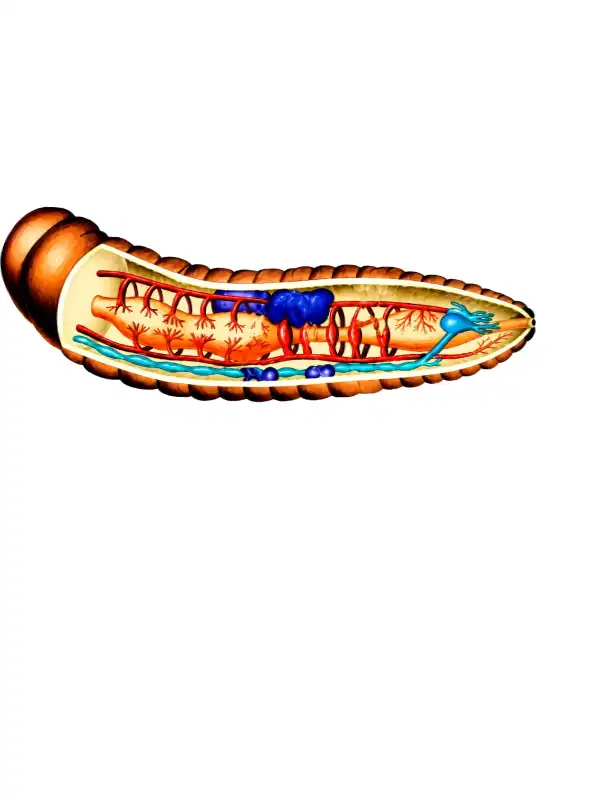
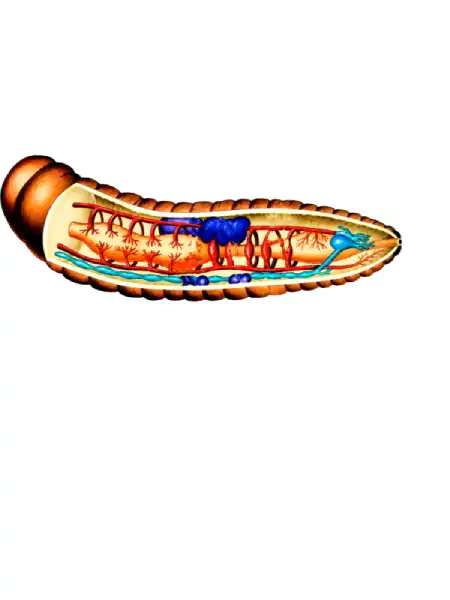
fix(diagram): wrap container tightly around image to eliminate side gaps

Changed region(s): [[0.0933, 0.3, 0.8711, 0.51], [0.6533, 0.33, 0.7156, 0.36], [0.8711, 0.39, 0.9022, 0.42]]

diff --git a/src/components/InteractiveDiagramVisualizer.tsx b/src/components/InteractiveDiagramVisualizer.tsx
@@ -183,135 +183,137 @@ export function InteractiveDiagramVisualizer({ diagrams, lang, lessonFolder }: I
         </div>
       )}
 
-      {/* Main Diagram Canvas Area - Compact Height to fit screen with Zero Scroll */}
-      <div 
-        className="relative w-full h-[36vh] max-h-[320px] min-h-[220px] md:h-[400px] md:max-h-[420px] border border-slate-150 dark:border-slate-800/80 rounded-2xl overflow-hidden bg-slate-950/20 dark:bg-[#060913] select-none flex items-center justify-center touch-none"
-        onMouseDown={handleMouseDown}
-        onMouseMove={handleMouseMove}
-        onMouseUp={handleMouseUp}
-        onMouseLeave={handleMouseUp}
-        onTouchStart={handleTouchStart}
-        onTouchMove={handleTouchMove}
-        onTouchEnd={handleTouchEnd}
-        style={{ cursor: transform.scale > 1 ? (isDragging ? 'grabbing' : 'grab') : 'default' }}
-      >
-        {/* Zoomable Inner Canvas */}
-        <div
-          ref={containerRef}
-          className="relative max-h-full max-w-full flex items-center justify-center"
-          style={{
-            transform: `translate(${transform.x}px, ${transform.y}px) scale(${transform.scale})`,
-            transformOrigin: 'center center',
-            transition: isDragging ? 'none' : 'transform 0.15s ease-out'
-          }}
+      {/* Main Diagram Canvas Area - Wraps tightly with Zero Side Gaps */}
+      <div className="flex items-center justify-center w-full overflow-hidden">
+        <div 
+          className="relative inline-block max-w-full border border-slate-150 dark:border-slate-800/80 rounded-2xl overflow-hidden bg-slate-950/20 dark:bg-[#060913] select-none touch-none shadow-xs"
+          onMouseDown={handleMouseDown}
+          onMouseMove={handleMouseMove}
+          onMouseUp={handleMouseUp}
+          onMouseLeave={handleMouseUp}
+          onTouchStart={handleTouchStart}
+          onTouchMove={handleTouchMove}
+          onTouchEnd={handleTouchEnd}
+          style={{ cursor: transform.scale > 1 ? (isDragging ? 'grabbing' : 'grab') : 'default' }}
         >
-          {/* Sub-wrapper that strictly wraps the rendered image dimensions */}
-          <div className="relative inline-block max-h-[36vh] md:max-h-[400px] max-w-full">
-            <img
-              src={getAssetUrl(activeDiagram.imageFile)}
-              alt={lang === 'ar' ? activeDiagram.titleAr : (activeDiagram.titleEn || activeDiagram.titleAr)}
-              className="h-[36vh] max-h-[320px] min-h-[220px] md:h-[400px] md:max-h-[420px] w-auto object-contain block rounded-xl mx-auto"
-              draggable={false}
-            />
+          {/* Zoomable Inner Canvas */}
+          <div
+            ref={containerRef}
+            className="relative flex items-center justify-center"
+            style={{
+              transform: `translate(${transform.x}px, ${transform.y}px) scale(${transform.scale})`,
+              transformOrigin: 'center center',
+              transition: isDragging ? 'none' : 'transform 0.15s ease-out'
+            }}
+          >
+            {/* Sub-wrapper that strictly matches the exact rendered image width & height */}
+            <div className="relative inline-block w-auto h-auto max-w-full">
+              <img
+                src={getAssetUrl(activeDiagram.imageFile)}
+                alt={lang === 'ar' ? activeDiagram.titleAr : (activeDiagram.titleEn || activeDiagram.titleAr)}
+                className="max-h-[42vh] md:max-h-[380px] w-auto max-w-full object-contain block rounded-xl mx-auto"
+                draggable={false}
+              />
 
-            {/* SVG arrows overlay */}
-            <svg className="absolute inset-0 w-full h-full pointer-events-none z-15">
-              <defs>
-                {/* Arrow marker for default state */}
-                <marker
-                  id="arrow-head-default"
-                  viewBox="0 0 10 10"
-                  refX="6"
-                  refY="5"
-                  markerWidth="6"
-                  markerHeight="6"
-                  orient="auto-start-reverse"
-                >
-                  <path d="M 0 1.5 L 10 5 L 0 8.5 z" fill="#10b981" />
-                </marker>
-                {/* Arrow marker for active state */}
-                <marker
-                  id="arrow-head-active"
-                  viewBox="0 0 10 10"
-                  refX="6"
-                  refY="5"
-                  markerWidth="7"
-                  markerHeight="7"
-                  orient="auto-start-reverse"
-                >
-                  <path d="M 0 1.5 L 10 5 L 0 8.5 z" fill="#f59e0b" />
-                </marker>
-              </defs>
+              {/* SVG arrows overlay */}
+              <svg className="absolute inset-0 w-full h-full pointer-events-none z-15">
+                <defs>
+                  {/* Arrow marker for default state */}
+                  <marker
+                    id="arrow-head-default"
+                    viewBox="0 0 10 10"
+                    refX="6"
+                    refY="5"
+                    markerWidth="6"
+                    markerHeight="6"
+                    orient="auto-start-reverse"
+                  >
+                    <path d="M 0 1.5 L 10 5 L 0 8.5 z" fill="#10b981" />
+                  </marker>
+                  {/* Arrow marker for active state */}
+                  <marker
+                    id="arrow-head-active"
+                    viewBox="0 0 10 10"
+                    refX="6"
+                    refY="5"
+                    markerWidth="7"
+                    markerHeight="7"
+                    orient="auto-start-reverse"
+                  >
+                    <path d="M 0 1.5 L 10 5 L 0 8.5 z" fill="#f59e0b" />
+                  </marker>
+                </defs>
 
-              {hotspotsList.map((hotspot) => {
-                if (hotspot.arrowX === undefined || hotspot.arrowY === undefined || hotspot.arrowX === null || hotspot.arrowY === null) return null;
+                {hotspotsList.map((hotspot) => {
+                  if (hotspot.arrowX === undefined || hotspot.arrowY === undefined || hotspot.arrowX === null || hotspot.arrowY === null) return null;
+                  const isActive = selectedHotspot?.id === hotspot.id;
+                  
+                  return (
+                    <line
+                      key={`arrow-${hotspot.id}`}
+                      x1={`${hotspot.x}%`}
+                      y1={`${hotspot.y}%`}
+                      x2={`${hotspot.arrowX}%`}
+                      y2={`${hotspot.arrowY}%`}
+                      stroke={isActive ? '#f59e0b' : '#10b981'}
+                      strokeWidth={isActive ? 3 : 1.8}
+                      strokeDasharray={isActive ? 'none' : '3 3'}
+                      markerEnd={`url(#arrow-head-${isActive ? 'active' : 'default'})`}
+                      className="transition-all duration-300"
+                      style={{
+                        opacity: selectedHotspot ? (isActive ? 1 : 0.4) : 0.85
+                      }}
+                    />
+                  );
+                })}
+              </svg>
+
+              {/* Hotspots clickable markers */}
+              {hotspotsList.map((hotspot, idx) => {
                 const isActive = selectedHotspot?.id === hotspot.id;
-                
                 return (
-                  <line
-                    key={`arrow-${hotspot.id}`}
-                    x1={`${hotspot.x}%`}
-                    y1={`${hotspot.y}%`}
-                    x2={`${hotspot.arrowX}%`}
-                    y2={`${hotspot.arrowY}%`}
-                    stroke={isActive ? '#f59e0b' : '#10b981'}
-                    strokeWidth={isActive ? 3 : 1.8}
-                    strokeDasharray={isActive ? 'none' : '3 3'}
-                    markerEnd={`url(#arrow-head-${isActive ? 'active' : 'default'})`}
-                    className="transition-all duration-300"
+                  <div
+                    key={hotspot.id}
+                    className="absolute"
                     style={{
-                      opacity: selectedHotspot ? (isActive ? 1 : 0.4) : 0.85
+                      left: `${hotspot.x}%`,
+                      top: `${hotspot.y}%`,
+                      transform: `translate(-50%, -50%) scale(${1 / transform.scale})`,
+                      transformOrigin: 'center center',
+                      zIndex: isActive ? 50 : 20
                     }}
-                  />
+                  >
+                    <button
+                      onClick={() => {
+                        playHotspotSound();
+                        setSelectedHotspot(isActive ? null : hotspot);
+                      }}
+                      className={`w-6 h-6 md:w-7 md:h-7 flex items-center justify-center group focus:outline-none relative cursor-pointer rounded-full transition-transform ${
+                        isActive ? 'scale-125' : 'hover:scale-110 active:scale-95'
+                      }`}
+                      title={hotspot.labelAr}
+                      aria-label={hotspot.labelAr}
+                    >
+                      {/* Pulsing ring */}
+                      <span className={`absolute inline-flex h-full w-full rounded-full opacity-80 ${
+                        isActive ? 'animate-ping bg-amber-400' : 'animate-pulse bg-emerald-400'
+                      }`}></span>
+                      {/* Inner core badge with number */}
+                      <span className={`relative inline-flex items-center justify-center rounded-full h-4.5 w-4.5 md:h-5 md:w-5 text-[9px] md:text-[10px] font-black text-white shadow-xs border border-white transition-colors ${
+                        isActive ? 'bg-amber-500 ring-2 ring-amber-300' : 'bg-emerald-600'
+                      }`}>
+                        {idx + 1}
+                      </span>
+                    </button>
+                  </div>
                 );
               })}
-            </svg>
-
-            {/* Hotspots clickable markers */}
-            {hotspotsList.map((hotspot, idx) => {
-              const isActive = selectedHotspot?.id === hotspot.id;
-              return (
-                <div
-                  key={hotspot.id}
-                  className="absolute"
-                  style={{
-                    left: `${hotspot.x}%`,
-                    top: `${hotspot.y}%`,
-                    transform: `translate(-50%, -50%) scale(${1 / transform.scale})`,
-                    transformOrigin: 'center center',
-                    zIndex: isActive ? 50 : 20
-                  }}
-                >
-                  <button
-                    onClick={() => {
-                      playHotspotSound();
-                      setSelectedHotspot(isActive ? null : hotspot);
-                    }}
-                    className={`w-6 h-6 md:w-7 md:h-7 flex items-center justify-center group focus:outline-none relative cursor-pointer rounded-full transition-transform ${
-                      isActive ? 'scale-125' : 'hover:scale-110 active:scale-95'
-                    }`}
-                    title={hotspot.labelAr}
-                    aria-label={hotspot.labelAr}
-                  >
-                    {/* Pulsing ring */}
-                    <span className={`absolute inline-flex h-full w-full rounded-full opacity-80 ${
-                      isActive ? 'animate-ping bg-amber-400' : 'animate-pulse bg-emerald-400'
-                    }`}></span>
-                    {/* Inner core badge with number */}
-                    <span className={`relative inline-flex items-center justify-center rounded-full h-4.5 w-4.5 md:h-5 md:w-5 text-[9px] md:text-[10px] font-black text-white shadow-xs border border-white transition-colors ${
-                      isActive ? 'bg-amber-500 ring-2 ring-amber-300' : 'bg-emerald-600'
-                    }`}>
-                      {idx + 1}
-                    </span>
-                  </button>
-                </div>
-              );
-            })}
+            </div>
           </div>
         </div>
       </div>
 
-      {/* Dedicated Compact Bottom Info Panel (Zero Scrolling) */}
+      {/* Dedicated Compact Bottom Info Panel */}
       {selectedHotspot ? (
         <div className="bg-gradient-to-br from-emerald-50/90 to-teal-50/60 dark:from-slate-800/95 dark:to-slate-850 border border-emerald-200/90 dark:border-emerald-800/70 p-3 rounded-2xl shadow-2xs space-y-1.5 animate-fadeIn transition-all">
           <div className="flex items-center justify-between gap-2 border-b border-emerald-100 dark:border-slate-700/60 pb-1.5">
@@ -333,7 +335,7 @@ export function InteractiveDiagramVisualizer({ diagrams, lang, lessonFolder }: I
             </button>
           </div>
 
-          <p className="text-[11px] md:text-xs font-semibold text-slate-750 dark:text-slate-200 leading-relaxed max-h-20 overflow-y-auto">
+          <p className="text-[11px] md:text-xs font-semibold text-slate-750 dark:text-slate-200 leading-relaxed max-h-24 overflow-y-auto">
             {lang === 'ar' ? selectedHotspot.descAr : (selectedHotspot.descEn || selectedHotspot.descAr)}
           </p>
 
